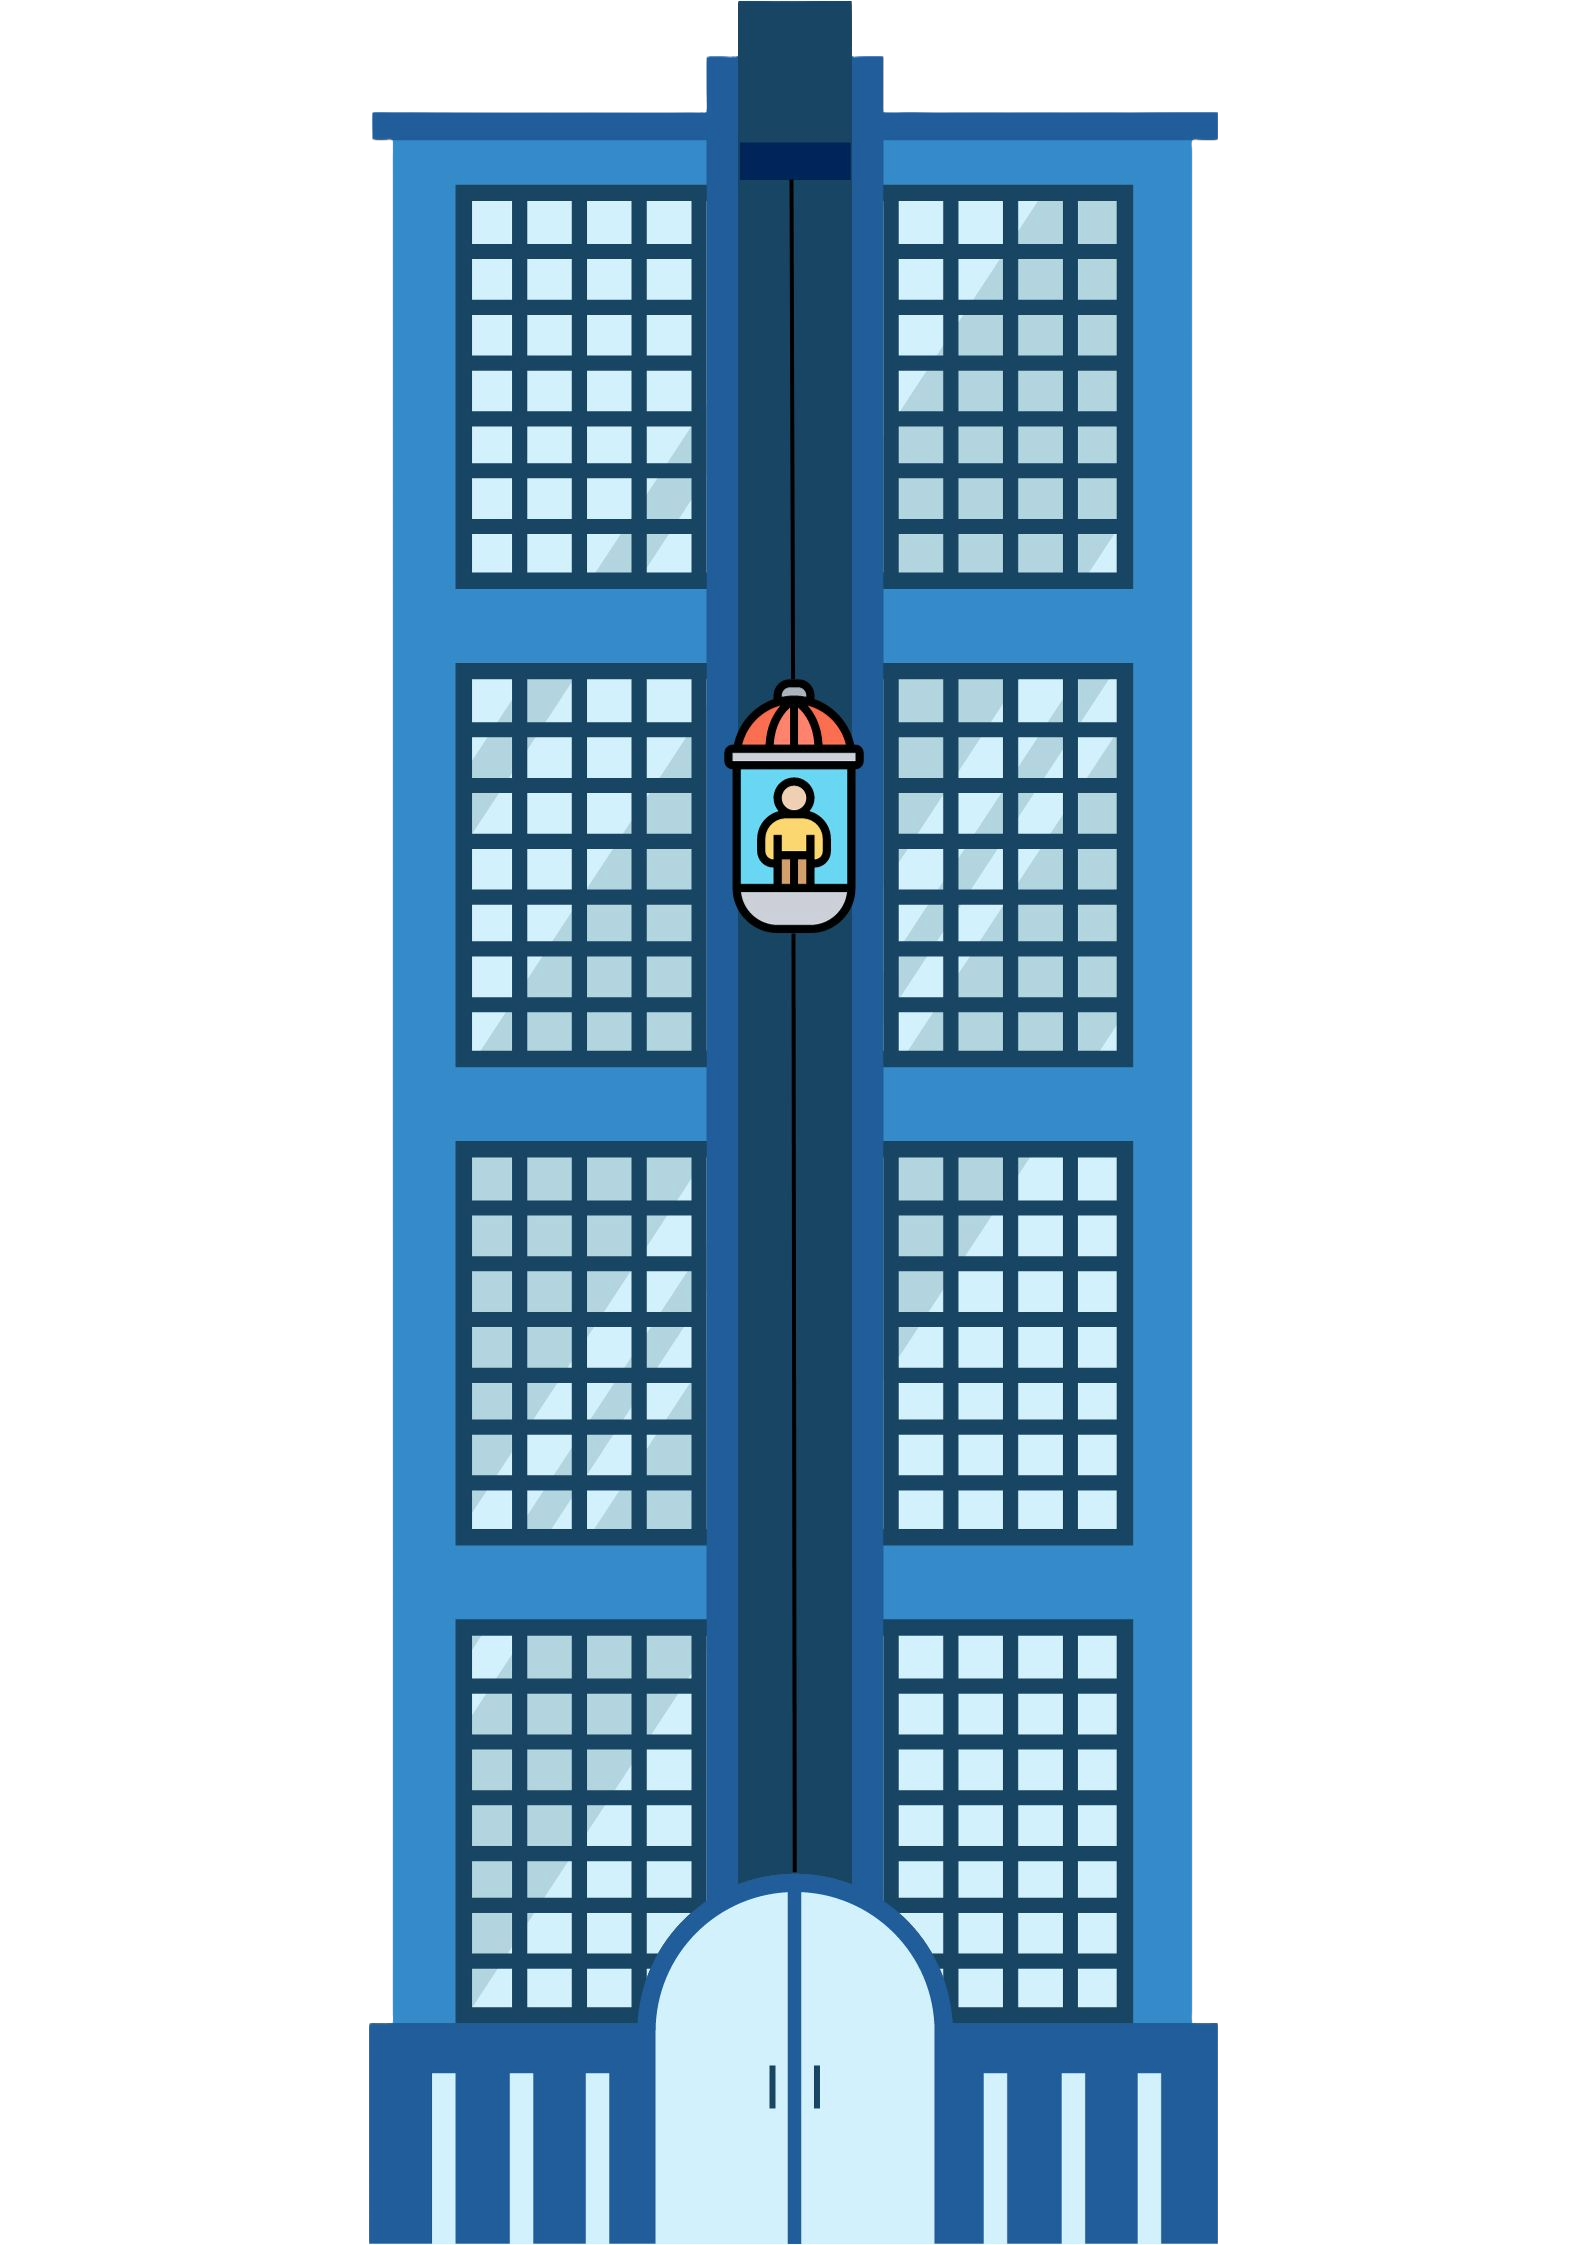
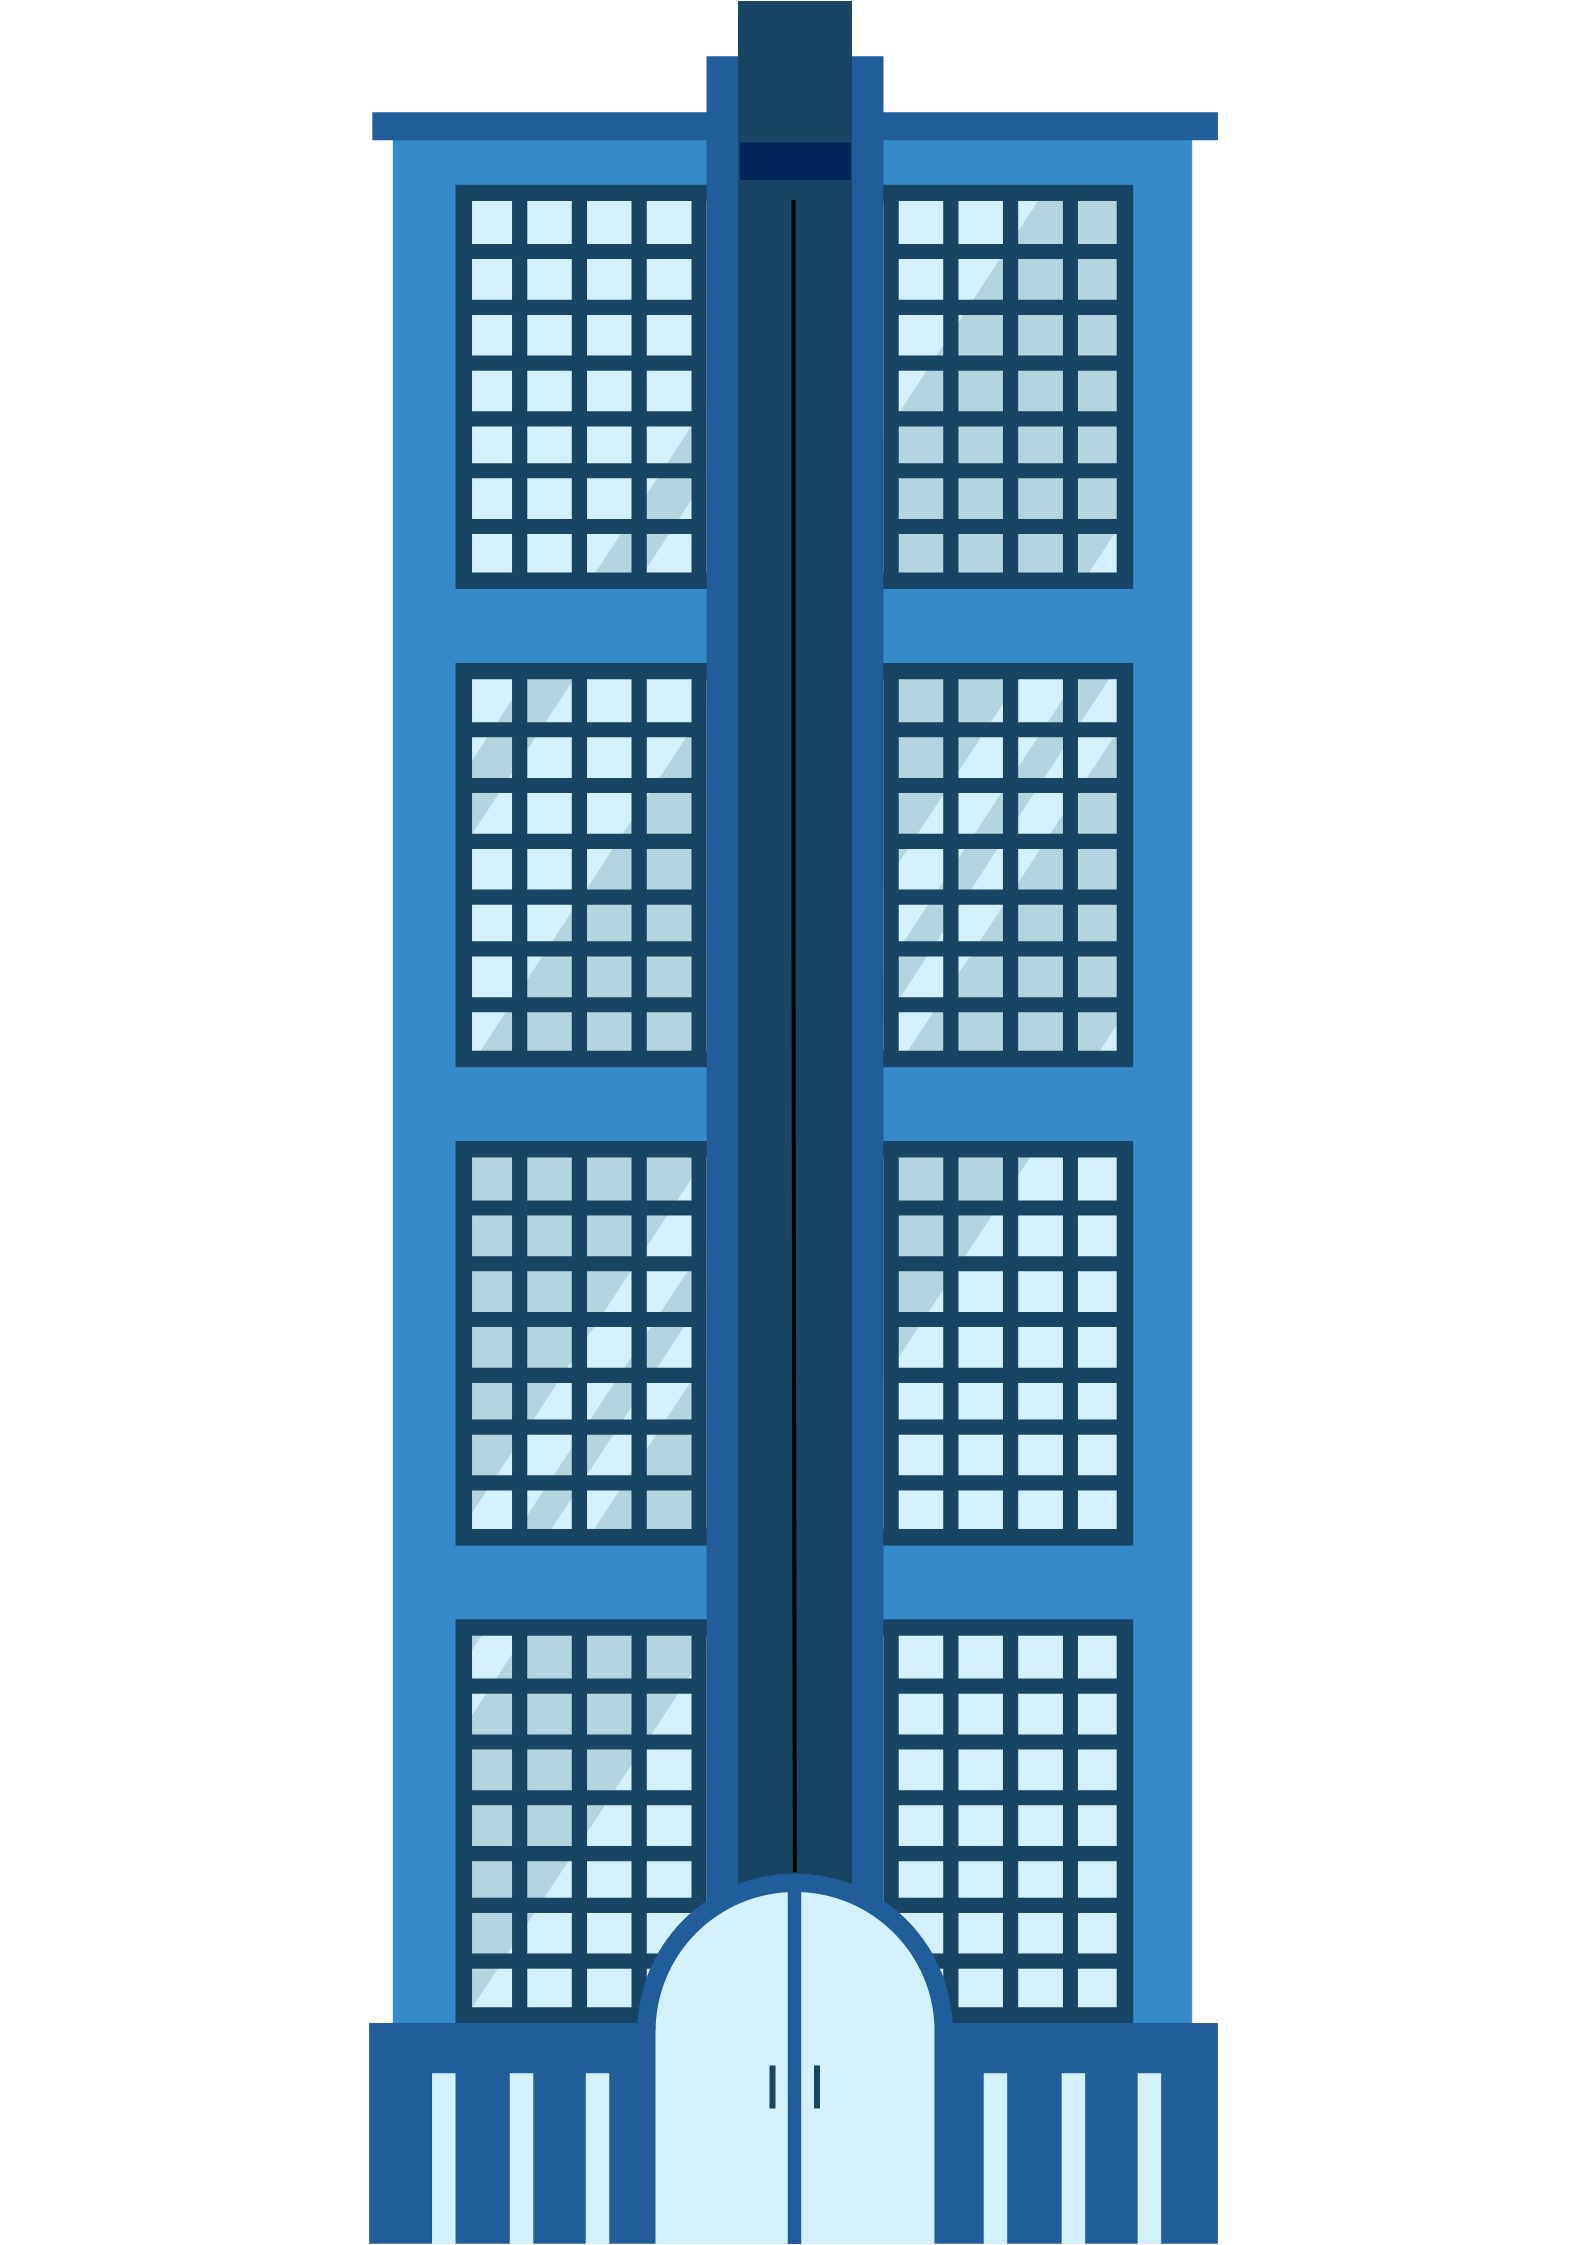
Agora vai hihi

diff --git a/src/pages/home/Home.jsx b/src/pages/home/Home.jsx
@@ -1,27 +1,118 @@
-import React from 'react';
-import './home.scss';
-import ListaEvento from './ListaEvento.jsx';
-import elevadordesativado from './elevador-desativado.png';
+import React, { useState } from "react";
+import "./home.scss";
+import ListaEvento from "./ListaEvento.jsx";
+import elevadordesativado from "./elevador-desativado.png";
+import elevadorligado from "./elevador-ativado.png";
+import elevadoremchamas from "./elevador-em-chamas.png";
+import caboscortados from "./cabos-cortados.png";
+import cabosconectados from "./cabos-conectados.png";
 
 const Home = () => {
+  const [status, setStatus] = useState("Off");
+  const [botaoAtivo, setBotaoAtivo] = useState(true);
+  const [popupVisible, setPopupVisible] = useState(false);
+  const [elevadorStatus, setElevadorStatus] = useState("ligado");
+  const [listaEventosVisible, setListaEventosVisible] = useState(true);
+  const [valor1] = useState();
+  const [valor2] = useState();
+  const [metricasVisiveis, setMetricasVisiveis] = useState(false);
+
+  const toggleStatus = () => {
+    if (botaoAtivo) {
+      setStatus("On");
+      setBotaoAtivo(false);
+    }
+  };
+
+  const toggleElevadorStatus = () => {
+    if (elevadorStatus === "chamas") {
+      setElevadorStatus("caboscortados");
+    } else if (elevadorStatus === "caboscortados") {
+      setElevadorStatus("cabosconectados");
+    }
+  };
+
+  const openPopupWithElevadoremchamas = () => {
+    setElevadorStatus("chamas");
+    setPopupVisible(true);
+    setListaEventosVisible(false);
+    setBotaoAtivo(false); // Oculte permanentemente o botão "ON"
+  };
+
+  const togglePopup = () => {
+    setPopupVisible(!popupVisible);
+
+    if (popupVisible) {
+      // Se o popup foi fechado, reexiba a lista de eventos
+      setListaEventosVisible(false);
+     
+      setMetricasVisiveis(true); 
+
+    }
+  };
+  
+
   return (
-    <div className='home'>
-      <div className="homeContainer">
+    <div className="home">
+      <div className="homeFContainer">
         <h1>Firefighters-sre</h1>
-        </div> 
-      <div className="listaevento">
-      < ListaEvento />
       </div>
-       <div className='status'>
-      <h2>Off</h2>
-    
-      </div> 
-       <div>
-      <img src={elevadordesativado} className='elevadordesativado'/>
+      {listaEventosVisible && ( // Renderize a lista de eventos apenas se ela estiver visível
+        <div className="listaevento">
+          <ListaEvento />
+        </div>
+      )}
+      <div className="status">
+        {botaoAtivo && (
+          <button
+            className="buttonStatus"
+            onClick={toggleStatus}
+            disabled={!botaoAtivo}
+          >
+            {botaoAtivo ? "OFF" : "ON"}
+          </button>
+        )}
+      </div>
+      <div>
+        <img
+          src={status === "Off" ? elevadordesativado : elevadorligado}
+          className="elevador"
+          onClick={openPopupWithElevadoremchamas}
+        />
+        {popupVisible && (
+          <div className="popup">
+            <img
+              src={
+                elevadorStatus === "chamas"
+                  ? elevadoremchamas
+                  : elevadorStatus === "caboscortados"
+                  ? caboscortados
+                  : cabosconectados
+              }
+              className="elevadoremchamas"
+              onClick={toggleElevadorStatus}
+            />
+            <button className="fecharPopup" onClick={togglePopup}>
+              Fechar
+            </button>
+          </div>
+        )}
+      {metricasVisiveis && (
+  <div className="metricas">
+    <div className="valor-box">
+      <span>Tempo: 50%</span>
+      <span>{valor1}</span>
+    </div>
+    <div className="valor-box">
+      <span>Disponibilidade: 60% </span>
+      <span>{valor2}</span>
+    </div>
+  </div>
+)}
+
       </div>
     </div>
-   
-  )
-}
+  );
+};
 
-export default Home
+export default Home;

diff --git a/src/pages/home/home.scss b/src/pages/home/home.scss
@@ -1,43 +1,77 @@
-.home{
-  
-    text-align: center;
-    
-    .square{
-        -webkit-box-shadow: 0px 10px 13px -7px #000000, 26px 32px 13px 9px rgba(0,0,0,0.05); 
-        box-shadow: 0px 10px 13px -7px #000000, 26px 32px 13px 9px rgba(0,0,0,0.05);
-        width: 100%; /* Defina a largura do container */
-        aspect-ratio: 1; /* Defina uma relação de aspecto 1:1 para criar um quadrado */
-        border: 1px solid #000;
-        }  
-}
-body{
+.home {
+  text-align: center;
 
-    background-image: url('predio-elevador-pessoa.png');
-    background-repeat: no-repeat;
-    background-size: 300px;
-    background-position: center;
-    background-position-y: 400px;
+  .square {
+    -webkit-box-shadow: 0px 10px 13px -7px #000000,
+      26px 32px 13px 9px rgba(0, 0, 0, 0.05);
+    box-shadow: 0px 10px 13px -7px #000000,
+      26px 32px 13px 9px rgba(0, 0, 0, 0.05);
+    width: 100%; /* Defina a largura do container */
+    aspect-ratio: 1; /* Defina uma relação de aspecto 1:1 para criar um quadrado */
+    border: 1px solid #000;
+  }
 }
-
-.status{
-    margin-top: 200px; 
-    height: 30px;
-    width: 50px;  
-    position: fixed;
-    left: 55%;
-    background-color: red;
-    color: white;
-    
-    
+body {
+  background-image: url("predio-elevador-pessoa.png");
+  background-repeat: no-repeat;
+  background-size: 300px;
+  background-position: center;
+  background-position-y: 400px;
 }
 
-.listaevento{
+.popup {
+  height: 100%;
+  width: 100%;
+  top: 170px;
+  overflow: hidden;
+  background-color: white;
+  position: absolute;
+  top: 50%;
+  left: 50%;
+  transform: translate(-50%, -50%);
+  border-radius: 10%;
+  border-color: #000;
+}
+
+.listaevento {
   height: 100px; /* Defina a altura fixa desejada */
-  overflow-y: auto; /* Adicione rolagem vertical quando necessário */
+  //overflow-y: auto; /* Adicione rolagem vertical quando necessário */
 }
 
-.elevadordesativado{
-    width: 60px;
-    margin-top: 320px;
-  
+.elevador {
+  width: 60px;
+  margin-top: 320px;
 }
+.elevadorligado {
+  position: fixed; /* Fixa o elemento na tela */
+  bottom: 0; /* Fica na parte inferior da tela */
+  right: 0; /* Fica no canto direito da tela */
+}
+
+.elevadoremchamas {
+  width: 100%;
+}
+.buttonStatus {
+  margin-top: 200px;
+  height: 30px;
+  width: 50px;
+  position: absolute;
+  left: 55%;
+  background-color: black;
+  color: white;
+}
+.metricas{
+    flex-direction: row;
+    padding: 10px;
+    background-color: #e1e1e1;
+    position: fixed;
+    right: 30px;
+    bottom: 600px;
+  }
+  
+  .valor-box {
+    
+    padding: 10px;
+    border: 1px solid #ccc;
+    background-color: #fff;
+  }

diff --git a/src/pages/home/ListaEvento.jsx b/src/pages/home/ListaEvento.jsx
@@ -13,7 +13,7 @@ function RoomLog() {
         }
         return newLog;
       });
-    }, 10000);
+    }, 8000);
 
     return () => {
       clearInterval(intervalId);
